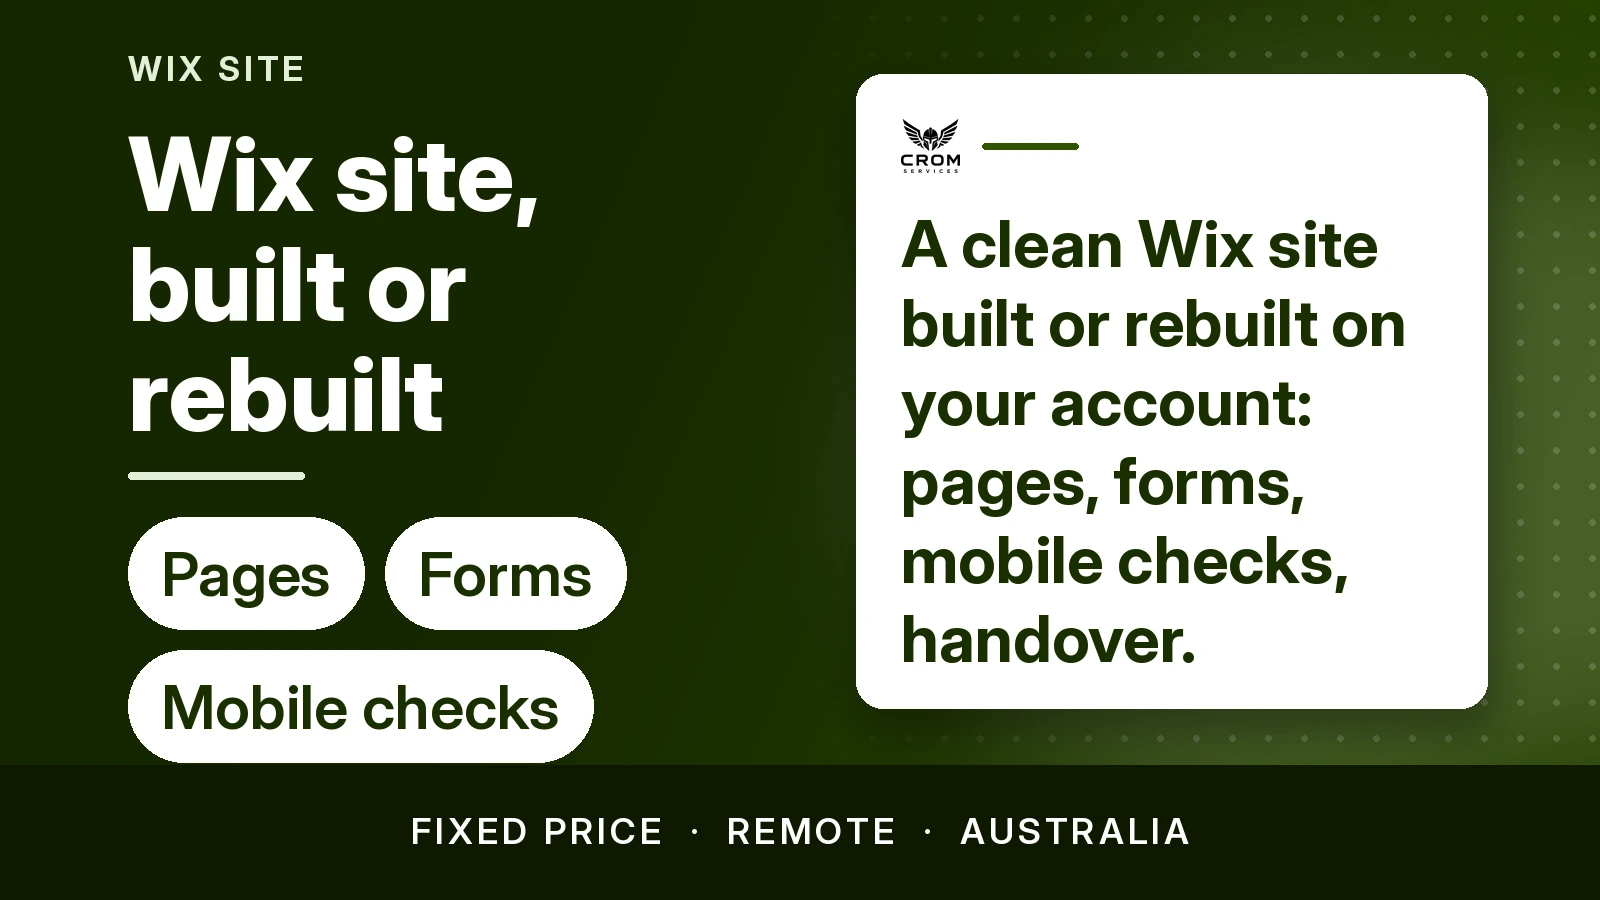
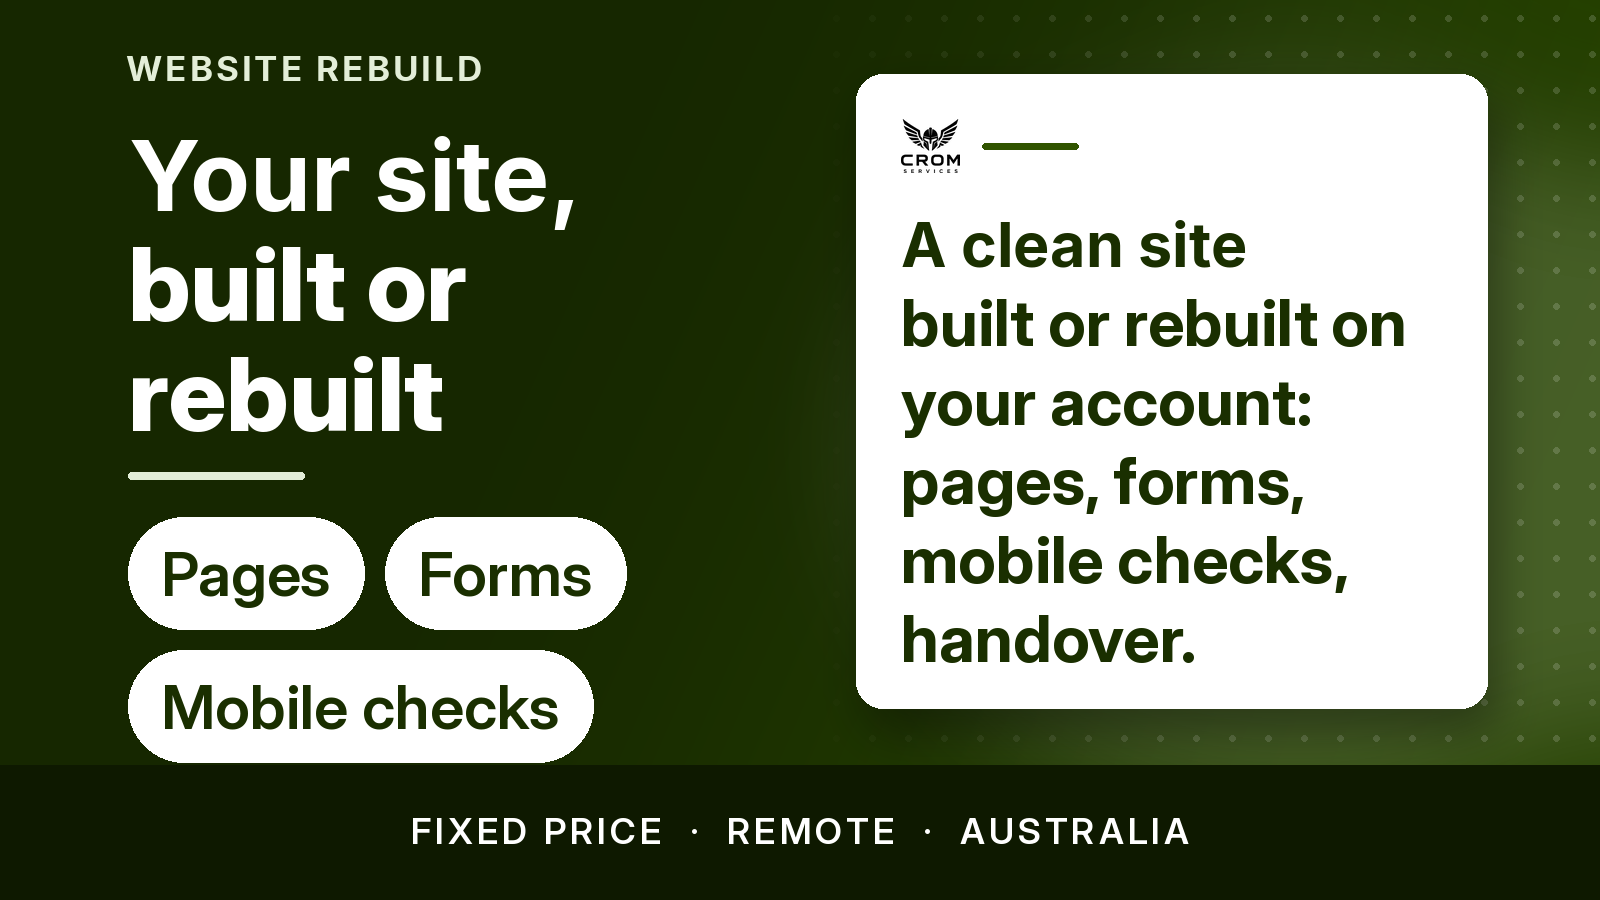
Packs page: drop platform names baked into the two demo card images

diff --git a/packs/index.html b/packs/index.html
@@ -160,8 +160,8 @@
       <article class="pack">
         <div class="pack-media">
           <picture>
-            <source srcset="./crom-card-wix.webp?v=1791988324" type="image/webp" />
-            <img src="./crom-card-wix.png?v=1791988324" width="1600" height="900" alt="Website rebuild pack thumbnail: a clean local business homepage with a free quote button" />
+            <source srcset="./crom-card-wix.webp?v=1793060425" type="image/webp" />
+            <img src="./crom-card-wix.png?v=1793060425" width="1600" height="900" alt="Website rebuild pack thumbnail: a clean local business homepage with a free quote button" />
           </picture>
         </div>
         <div class="pack-body">
@@ -175,8 +175,8 @@
       <article class="pack">
         <div class="pack-media">
           <picture>
-            <source srcset="./crom-card-lovable.webp?v=1793058953" type="image/webp" />
-            <img src="./crom-card-lovable.png?v=1793058953" width="1600" height="900" alt="Modern website with booking pack thumbnail: a friendly local business homepage with online booking" />
+            <source srcset="./crom-card-lovable.webp?v=1793060425" type="image/webp" />
+            <img src="./crom-card-lovable.png?v=1793060425" width="1600" height="900" alt="Modern website with booking pack thumbnail: a friendly local business homepage with online booking" />
           </picture>
         </div>
         <div class="pack-body">
